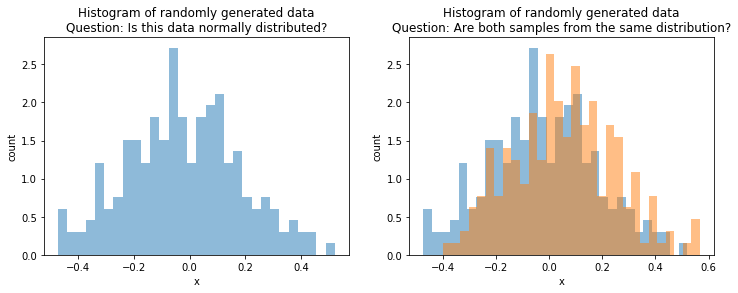
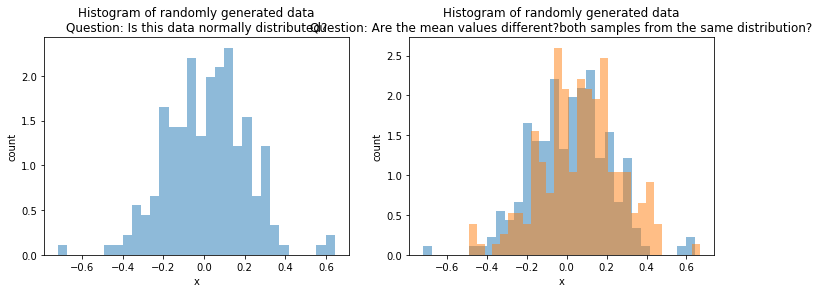
finished description of hypothesis testing

diff --git a/_build/11_Statistics.html b/_build/11_Statistics.html
@@ -13,7 +13,7 @@ prev_page:
 next_page:
   url: /Exercises.html
 suffix: .ipynb
-search: hypothesis mean test data t distribution normal x not value testing null alternative normally distributed populations standard statistics distributions looks used rejected students values deviation often chapter also e following both effect difference questions h assumption level significance does probability means determine different frac example visually histogram left however without additional just samples blue orange similar bit random us need statistical confidence intervals assumptions holds failed ha related welchs equal thus same whether because likely given case p drawn sd n motivation far looked exploration analyzed below histograms analyze bell shape indicates cannot sure analysis possible randomly outlier really shows
+search: hypothesis test data t not mean normal null values p value distribution difference populations testing significance tests x level probability means true e statistical given used reject different also normally distributed determine likely case often samples welchs thus same because standard statistics distributions both alternative equal g alpha results does students between such significant false example chapter looks analysis blue orange effect why assumptions assumption rejected question using answer calculate deviation still our any fail statistically generated statements mann whitney u shapiro wilk parametric positive however just following similar bit us need probabilistic questions should h since under only defined
 
 comment: "***PROGRAMMATICALLY GENERATED, DO NOT EDIT. SEE ORIGINAL FILES IN /content***"
 ---
@@ -59,7 +59,7 @@ comment: "***PROGRAMMATICALLY GENERATED, DO NOT EDIT. SEE ORIGINAL FILES IN /con
 
 <span class="n">axes</span><span class="p">[</span><span class="mi">1</span><span class="p">]</span><span class="o">.</span><span class="n">hist</span><span class="p">(</span><span class="n">s1</span><span class="p">,</span> <span class="mi">30</span><span class="p">,</span> <span class="n">density</span><span class="o">=</span><span class="kc">True</span><span class="p">,</span> <span class="n">alpha</span><span class="o">=</span><span class="mf">0.5</span><span class="p">)</span>
 <span class="n">axes</span><span class="p">[</span><span class="mi">1</span><span class="p">]</span><span class="o">.</span><span class="n">hist</span><span class="p">(</span><span class="n">s2</span><span class="p">,</span> <span class="mi">30</span><span class="p">,</span> <span class="n">density</span><span class="o">=</span><span class="kc">True</span><span class="p">,</span> <span class="n">alpha</span><span class="o">=</span><span class="mf">0.5</span><span class="p">)</span>
-<span class="n">axes</span><span class="p">[</span><span class="mi">1</span><span class="p">]</span><span class="o">.</span><span class="n">set_title</span><span class="p">(</span><span class="s2">&quot;Histogram of randomly generated data</span><span class="se">\n</span><span class="s2">Question: Are both samples from the same distribution?&quot;</span><span class="p">)</span>
+<span class="n">axes</span><span class="p">[</span><span class="mi">1</span><span class="p">]</span><span class="o">.</span><span class="n">set_title</span><span class="p">(</span><span class="s2">&quot;Histogram of randomly generated data</span><span class="se">\n</span><span class="s2">Question: Are the mean values different?both samples from the same distribution?&quot;</span><span class="p">)</span>
 <span class="n">axes</span><span class="p">[</span><span class="mi">1</span><span class="p">]</span><span class="o">.</span><span class="n">set_xlabel</span><span class="p">(</span><span class="s2">&quot;x&quot;</span><span class="p">)</span>
 <span class="n">axes</span><span class="p">[</span><span class="mi">1</span><span class="p">]</span><span class="o">.</span><span class="n">set_ylabel</span><span class="p">(</span><span class="s2">&quot;count&quot;</span><span class="p">)</span>
 
@@ -120,7 +120,7 @@ comment: "***PROGRAMMATICALLY GENERATED, DO NOT EDIT. SEE ORIGINAL FILES IN /con
 <li>$H_a$: $X_1$ and $X_2$ are not from two normally distributed populations with equal mean values.</li>
 </ul>
 <p>Thus, this test can be used to determine if two normally distributed populations have the same mean value. This is relevant in many use cases, e.g., to answer questions like "does this medication improve the health" or "is my deep neural network better than a random forest". Please note that the alternative hypothesis of the $t$-Test is not that the mean values are different. Only if both distributions are normal, this would mean that the mean values are different. If one of the populations is not normally distributed, we do not know whether the null hypothesis was rejected because the data was not normal or because the means are different. This misinterpretation of alternative hypothesis is one of the common mistakes when hypothesis testing is used.</p>
-<p>In order to determine evaluate whether the null hypothesis holds, hypothesis testing evaluates <em>how likely the data is, given the hypothesis</em>. For the $t$-Test this means that we want to calculate how likely it is that we observe the populations $X_1$ and $X_2$, in case both are normally distributed with the same mean value. This probability is the infamous <em>$p$-value</em>.</p>
+<p>In order to determine evaluate whether the null hypothesis holds, hypothesis testing evaluates <em>how likely the data is, given the hypothesis</em>. For the $t$-Test this means that we want to calculate how likely it is that we observe the populations $X_1$ and $X_2$, in case both are normally distributed with the same mean value. This probability is the infamous <em>p-value</em>.</p>
 <p>To determine the p-value, we need the probability density function of a test statistic. In case of the $t$-Test, this is Student's $t$-Distribution.</p>
 
 </div>
@@ -178,8 +178,9 @@ comment: "***PROGRAMMATICALLY GENERATED, DO NOT EDIT. SEE ORIGINAL FILES IN /con
 <div class="cell border-box-sizing text_cell rendered"><div class="inner_cell">
 <div class="text_cell_render border-box-sizing rendered_html">
 <p>This distribution looks similar to the normal distribution, the difference is that the tails are a bit longer than those of the normal distribution. Student's $t$-distribution is defined as the distribution of the  deviation of the arithmetic mean of a sample drawn from a standard normal distribution with a mean value of 0 and a standard deviation of 1 deviates. Thus, the $t$-Distribution tells us how much deviation of the mean values between two samples drawn from a standard normal distributions we can expect. This is directly related to the likelihood of the data, given the hypothesis that data is normal.</p>
-<p>The difference we still have is that the $t$ distribution is for a specific mean value and standard deviation, while our hypothesis is for normal distributions with any mean value and standard distribution.</p>
-$$t = \frac{mean(X_1)-mean(X_2)}{\sqrt{\frac{sd(X_1)^2}{N_1}+\frac{sd(X_2)}{N_2}}}$$
+<p>The difference we still have is that the $t$ distribution is for a specific mean value and standard deviation, while our hypothesis is for normal distributions with any mean value and standard distribution. This is why we need a <em>test statistic</em>, in case of the $t$-Test the $t$ value, which is defined as</p>
+$$t = \frac{mean(X_1)-mean(X_2)}{\sqrt{\frac{sd(X_1)^2}{n_1}+\frac{sd(X_2)}{n_2}}}$$<p>A bit simplified, the test statistics $t$ us the rescaled the difference between the two populations $X_1$ and $X_2$ such that this is the difference to estimates the difference of the means as if they were two standard normal distributions. Thus, we can use the $t$ value and Student's $t$-distribution to calculate how probable it is, that these populations are observed, given that the means are not different. For this, we calculate the area under the $t$-distribution outside of $\pm t$.</p>
+
 </div>
 </div>
 </div>
@@ -198,7 +199,7 @@ $$t = \frac{mean(X_1)-mean(X_2)}{\sqrt{\frac{sd(X_1)^2}{N_1}+\frac{sd(X_2)}{N_2}
 <span class="n">xfill_right</span> <span class="o">=</span> <span class="n">np</span><span class="o">.</span><span class="n">linspace</span><span class="p">(</span><span class="n">rv</span><span class="o">.</span><span class="n">ppf</span><span class="p">(</span><span class="mf">0.9999</span><span class="p">),</span><span class="n">tvalue</span><span class="p">)</span>
 
 <span class="n">plt</span><span class="o">.</span><span class="n">figure</span><span class="p">()</span>
-<span class="n">plt</span><span class="o">.</span><span class="n">title</span><span class="p">(</span><span class="s2">&quot;p-values with Student&#39;s $t$-distribution&quot;</span><span class="p">)</span>
+<span class="n">plt</span><span class="o">.</span><span class="n">title</span><span class="p">(</span><span class="s2">&quot;p-values with Student&#39;s $t$-distribution.</span><span class="se">\n</span><span class="s2">The green area is the p-value.&quot;</span><span class="p">)</span>
 <span class="n">plt</span><span class="o">.</span><span class="n">axvline</span><span class="p">(</span><span class="n">tvalue</span><span class="p">,</span> <span class="n">linestyle</span><span class="o">=</span><span class="s1">&#39;:&#39;</span><span class="p">)</span>
 <span class="n">plt</span><span class="o">.</span><span class="n">axvline</span><span class="p">(</span><span class="o">-</span><span class="n">tvalue</span><span class="p">,</span> <span class="n">linestyle</span><span class="o">=</span><span class="s1">&#39;:&#39;</span><span class="p">)</span>
 <span class="n">plt</span><span class="o">.</span><span class="n">xlim</span><span class="p">(</span><span class="o">-</span><span class="mi">5</span><span class="p">,</span><span class="mi">5</span><span class="p">)</span>
@@ -235,6 +236,38 @@ $$t = \frac{mean(X_1)-mean(X_2)}{\sqrt{\frac{sd(X_1)^2}{N_1}+\frac{sd(X_2)}{N_2}
 </div>
 </div>
 
+<div class="jb_cell">
+
+<div class="cell border-box-sizing text_cell rendered"><div class="inner_cell">
+<div class="text_cell_render border-box-sizing rendered_html">
+<p>The green area in the plot above is the probability, that the mean of a sample drawn from a standard normal distribution deviates by at least $t$ from 0. Since we calculated $t$ such that this is the same as the probability that the means of $X_1$ and $X_2$ are different, this is the p-value of the test, hence the probability that the data is observed given the null hypothesis is true.</p>
+<h3 id="Significance-Level">Significance Level<a class="anchor-link" href="#Significance-Level"> </a></h3><p>Since the p-value is how likely the data is, given that the null hypothesis is true, it is reasonable to argue that the null hypothesis may not be true, if the p-value is very small, i.e., the data is very unlikely if the null hypothesis were true. This concept is formalized with the <em>significance level</em> $\alpha$ that is used to define the <em>statistical significance</em> of results.</p>
+<p>The significance level decides is defined as the (acceptable) probability of rejecting the null hypothesis, given that it is true. While the significance level depends on the domains, commonly used values are 0.05, or more recently also 0.005. With the significance level, we can decide if we reject the null hypothesis or not:</p>
+<ul>
+<li>If $p-value &gt; \alpha$ we fail to reject the null hypothesis. This means that the data can be reasonably well explained, if the null hypothesis were true. </li>
+<li>If $p-value \leq \alpha$ we reject the null hypothesis and have a <em>statistically significant result</em>, e.g., a statistically significant difference of the mean values in case of the $t$-Test if both populations are normal. </li>
+</ul>
+<p>Please not that neither case means with absolute certainty that the null hypothesis or the alternative hypothesis is true. Hypothesis testing is probabilistic. When we fail to reject the null hypothesis, the null hypothesis could still be false, but this is not supported by the data. When we reject the null hypothesis, the null hypothesis could still be true, it is just unlikely - but not impossible! -  that such extreme data would be generated. This is also why we use the somewhat complicated wording of "fail to reject" or "reject" at some significance level. Absolute statements of the form "there is a difference", are not supported by hypothesis testing, only probabilistic statements of the form "there is a statistically significant difference with a significance level of $\alpha$.</p>
+<h3 id="Overview-of-Statistical-Tests">Overview of Statistical Tests<a class="anchor-link" href="#Overview-of-Statistical-Tests"> </a></h3><p>The explanations above are similar for all statistical tests: we have a null hypothesis that is based on our assumptions and we calculate a p-value that we can use to either fail to reject are reject the null hypothesis given some level of significance.</p>
+<p>Here are the null hypothesis of some important statistical tests.</p>
+<ul>
+<li>Welch's $t$-Test: The means of two normally distributed populations are equal</li>
+<li>Mann-Whitney-U Test / Wilcoxon-Ranksum-Test: The values from one population dominate the values of another population (more or less difference of means/medians)</li>
+<li>Shapiro-Wilk Test: A population of 3 to 5000 independent samples is normally distributed.</li>
+<li>Levene's Test: The variances of a group of populations are equal.</li>
+<li>ANOVA (F-Test): The mean values of a group normally distributed populations with equal variances are equal.</li>
+<li>Kolmogorov-Smirnoff Test: Two populations have the same probability distribution.</li>
+</ul>
+<p>We already know that we can use Welch's $t$-Test to determine if the means of two normal distributions are significantly different. In case the data is not normal, we can use the Mann-Whitney-U Test instead. We can use the Shapiro-Wilk Test to determine if our samples are normal, e.g., to decide which test to use for the difference in the central tendency. When we have more than one populations, we can use ANOVA to test for differences in the central tendency, given the data is normal and all variances are the same. Levene's tests can be used to determine if is this is the case.</p>
+<p>In general, we say that a test is <em>parametric</em> if the tests has assumptions about the distribution of the data (e.g., that the data must be normal), and <em>non-parametric</em> if the test does not make such assumption. Welch's $t$-Test is an example of parametric test, the Mann-Whitney-U Test is the non-parametric counterpart.</p>
+<p>The Kolmogorov-Smirnoff Tests is one of the most generic statistical tests, because it can test for arbitrary populations of continuous data if they are from the same distribution. Thus, this test can be used under any nearly any circumstances. Regardless, using this test is some sort of "last resort", because in case of differences, we have no idea what the difference may be. In comparison, if we first conduct Shapiro-Wilk tests to determine that data is normal and then use Welch's $t$-Test and find that there is a significant different, we not only know that there likely is a difference between the populations, but also that this difference is due to a difference in mean values.</p>
+<h3 id="Using-the-$t$-Test">Using the $t$-Test<a class="anchor-link" href="#Using-the-$t$-Test"> </a></h3><p>Now that we have discussed the statistical tests in detail, we come back to our motivation and try to answer the question from the beginning of this chapter: are the mean values of the blue and orange samples different? We already learned, that we cannot answer this question absolutely. But we can use the statistical tests to answer the question if the mean values of the blue and orange samples are significantly different at a significance level of $\alpha$. To determine this, we first apply the Shapiro-Wilk test to both samples, to check if they are normal. If both are normal, we use Welch's $t$-Test, otherwise we use the Mann-Whitney-U test.</p>
+
+</div>
+</div>
+</div>
+</div>
+
 <div class="jb_cell tag_hide_input">
 
 <div class="cell border-box-sizing code_cell rendered">
@@ -249,7 +282,7 @@ $$t = \frac{mean(X_1)-mean(X_2)}{\sqrt{\frac{sd(X_1)^2}{N_1}+\frac{sd(X_2)}{N_2}
     <span class="nb">print</span><span class="p">(</span><span class="s1">&#39;</span><span class="se">\n</span><span class="s1">&#39;</span><span class="o">.</span><span class="n">join</span><span class="p">(</span><span class="n">wrapper</span><span class="o">.</span><span class="n">wrap</span><span class="p">(</span><span class="n">string</span><span class="p">)))</span>
 
 
-<span class="n">alpha</span> <span class="o">=</span> <span class="mf">0.005</span>
+<span class="n">alpha</span> <span class="o">=</span> <span class="mf">0.05</span>
 <span class="n">pval_shapiro1</span> <span class="o">=</span> <span class="n">stats</span><span class="o">.</span><span class="n">shapiro</span><span class="p">(</span><span class="n">s1</span><span class="p">)[</span><span class="mi">1</span><span class="p">]</span>
 <span class="n">pval_shapiro2</span> <span class="o">=</span> <span class="n">stats</span><span class="o">.</span><span class="n">shapiro</span><span class="p">(</span><span class="n">s2</span><span class="p">)[</span><span class="mi">1</span><span class="p">]</span>
 
@@ -277,9 +310,9 @@ $$t = \frac{mean(X_1)-mean(X_2)}{\sqrt{\frac{sd(X_1)^2}{N_1}+\frac{sd(X_2)}{N_2}
 <span class="nb">print</span><span class="p">()</span>    
 <span class="n">wrap_print</span><span class="p">(</span><span class="s2">&quot;p-value of Welch&#39;s t-tests: </span><span class="si">%f</span><span class="s2">&quot;</span> <span class="o">%</span> <span class="n">pval_equal</span><span class="p">)</span>
 <span class="k">if</span> <span class="n">pval_equal</span><span class="o">&gt;</span><span class="n">alpha</span><span class="p">:</span>
-    <span class="n">wrap_print</span><span class="p">(</span><span class="s1">&#39;The test found that the population means are equal, failing to reject the null hypothesis at significance level alpha=</span><span class="si">%.3f</span><span class="s1">.&#39;</span> <span class="o">%</span> <span class="n">alpha</span><span class="p">)</span>
+    <span class="n">wrap_print</span><span class="p">(</span><span class="s1">&#39;The test found that the population means are probably equal, failing to reject the null hypothesis at significance level alpha=</span><span class="si">%.3f</span><span class="s1">.&#39;</span> <span class="o">%</span> <span class="n">alpha</span><span class="p">)</span>
 <span class="k">else</span><span class="p">:</span>
-    <span class="n">wrap_print</span><span class="p">(</span><span class="s1">&#39;The test found that the population means are not equal, rejecting the null hypothesis at significance level alpha=</span><span class="si">%.3f</span><span class="s1">.&#39;</span> <span class="o">%</span> <span class="n">alpha</span><span class="p">)</span>
+    <span class="n">wrap_print</span><span class="p">(</span><span class="s1">&#39;The test found that the population means are probably not equal, rejecting the null hypothesis at significance level alpha=</span><span class="si">%.3f</span><span class="s1">.&#39;</span> <span class="o">%</span> <span class="n">alpha</span><span class="p">)</span>
 </pre></div>
 
     </div>
@@ -293,19 +326,19 @@ $$t = \frac{mean(X_1)-mean(X_2)}{\sqrt{\frac{sd(X_1)^2}{N_1}+\frac{sd(X_2)}{N_2}
 <div class="output_area">
 
 <div class="output_subarea output_stream output_stdout output_text">
-<pre>p-value of Shapiro-Wilk test for &#34;blue&#34; data:   0.7442
+<pre>p-value of Shapiro-Wilk test for &#34;blue&#34; data:   0.1071
 The test found that the data sample was normal, failing to reject
-the null hypothesis at significance level alpha=0.005.
+the null hypothesis at significance level alpha=0.050.
 
-p-value of Shapiro-Wilk test for &#34;orange&#34; data: 0.4496
+p-value of Shapiro-Wilk test for &#34;orange&#34; data: 0.6994
 The test found that the data sample was normal, failing to reject
-the null hypothesis at significance level alpha=0.005.
+the null hypothesis at significance level alpha=0.050.
 
 Both populations normal. Using Welch&#39;s t-test.
 
-p-value of Welch&#39;s t-tests: 0.000096
-The test found that the population means are not equal, rejecting
-the null hypothesis at significance level alpha=0.005.
+p-value of Welch&#39;s t-tests: 0.008343
+The test found that the population means are probably not equal,
+rejecting the null hypothesis at significance level alpha=0.050.
 </pre>
 </div>
 </div>
@@ -313,6 +346,23 @@ the null hypothesis at significance level alpha=0.005.
 </div>
 </div>
 
+</div>
+</div>
+
+<div class="jb_cell">
+
+<div class="cell border-box-sizing text_cell rendered"><div class="inner_cell">
+<div class="text_cell_render border-box-sizing rendered_html">
+<p>Thus, the tests indicate that the data is likely normal and that the mean values are likely not exactly the same meaning that we found a statistically significant difference between the two mean values at a significance level of $\alpha=0.05$.</p>
+<h3 id="Common-Misuses-of-Hypothesis-Testing">Common Misuses of Hypothesis Testing<a class="anchor-link" href="#Common-Misuses-of-Hypothesis-Testing"> </a></h3><p>With hypothesis testing the devil is in the details, i.e., there are many things that can be forgotten or used in an imprecise way, which often leads to overstating the results. There are some big issues that are frequently misinterpreted.</p>
+<p>First, people often use hypothesis testing to make binary statements, e.g., "the data is normal" instead of "the statistical test indicates that the data is likely normal". This is a big difference: one leaves room for the expected errors with hypothesis testing, the other is an absolute statement indicating that this is true. That these mistakes happen (a lot!), is understandable. Writing about the results of statistical tests in a correct way is hard, because you have to be careful to avoid binary statements, while still drawing relevant conclusions. Regardless, good scientific practice mandates that this should be avoided.</p>
+<p>Second, p-values are misused because many people do not understand what the p-values. This is why there are many researchers advocating that hypothesis testing and p-values should be abolished, in favor of other methods. There are also many reseachers who say that abolishing p-values would not solve the problem that people do not understand statistics, which is the reason for the misuse. The two most important misuses <em>scoring</em> and <em>p-hacking</em>.</p>
+<p>Scoring means that the p-values are used as scores and the differences between populations are <em>ranked</em> using the p-values. This does not make any sense, because the p-values are not the probability that the hypothesis is true, but rather that the data was generated given that the hypothesis is true. Thus, ranking of p-values would mean that we somehow score the data, which is not the intend.</p>
+<p>The other problem, the p-hacking, often happens inadvertently. As discussed above, the p-value is the probability that the data was generated, given the hypothesis. Thus, if the p-value is 0.05, there would be a 5% probability that this data was generated, given the hypothesis. In other words, there already is the expectation that there are <em>false positive test results</em>, i.e., that we sometimes reject the null hypothesis, even if the null hypothesis is true. In general, this is not a problem, if we keep this probability low. However, if you conduct 20 tests and each test has a 5% probability that the test is a false positive, it is almost certain that there are false positive results. This effect can be countered by <em>adjusting</em> the p-value, e.g., with <a href="https://mathworld.wolfram.com/BonferroniCorrection.html">Bonferroni correction</a>.</p>
+<p>Such p-hacking also often happens inadvertantly through <em>subgroup analysis</em>. A famous example of this is <a href="https://doi.org/10.1016/S0140-6736(88">this article</a>92833-4), where the authors were forced to conduct subgroup analysis that were not planned. To demonstrate that this likely leads to false positive results, they included an analysis of the impact of the zodiac signs on the treatment.</p>
+
+</div>
+</div>
 </div>
 </div>
 
@@ -425,7 +475,7 @@ the null hypothesis at significance level alpha=0.005.
 
 
 <div class="output_png output_subarea ">
-<img src="images/11_Statistics_11_0.png"
+<img src="images/11_Statistics_13_0.png"
 >
 </div>
 
@@ -476,7 +526,7 @@ the null hypothesis at significance level alpha=0.005.
 
 
 <div class="output_png output_subarea ">
-<img src="images/11_Statistics_12_0.png"
+<img src="images/11_Statistics_14_0.png"
 >
 </div>
 
